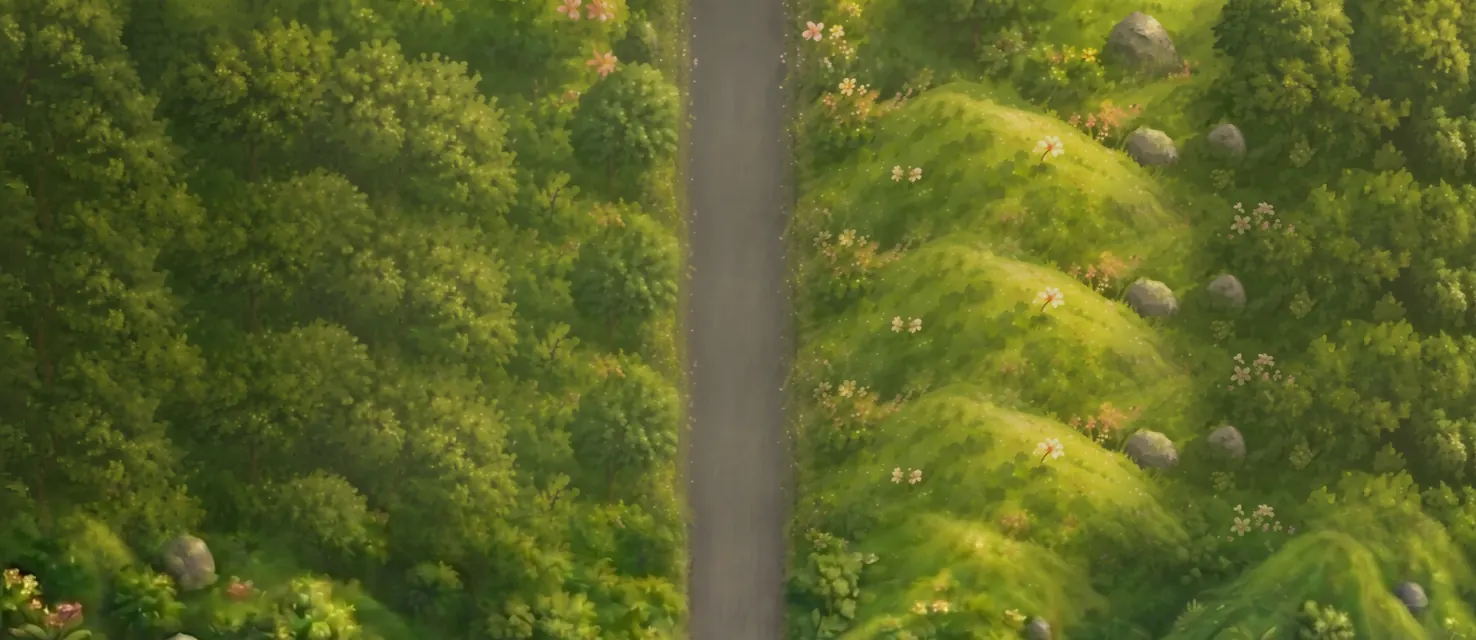
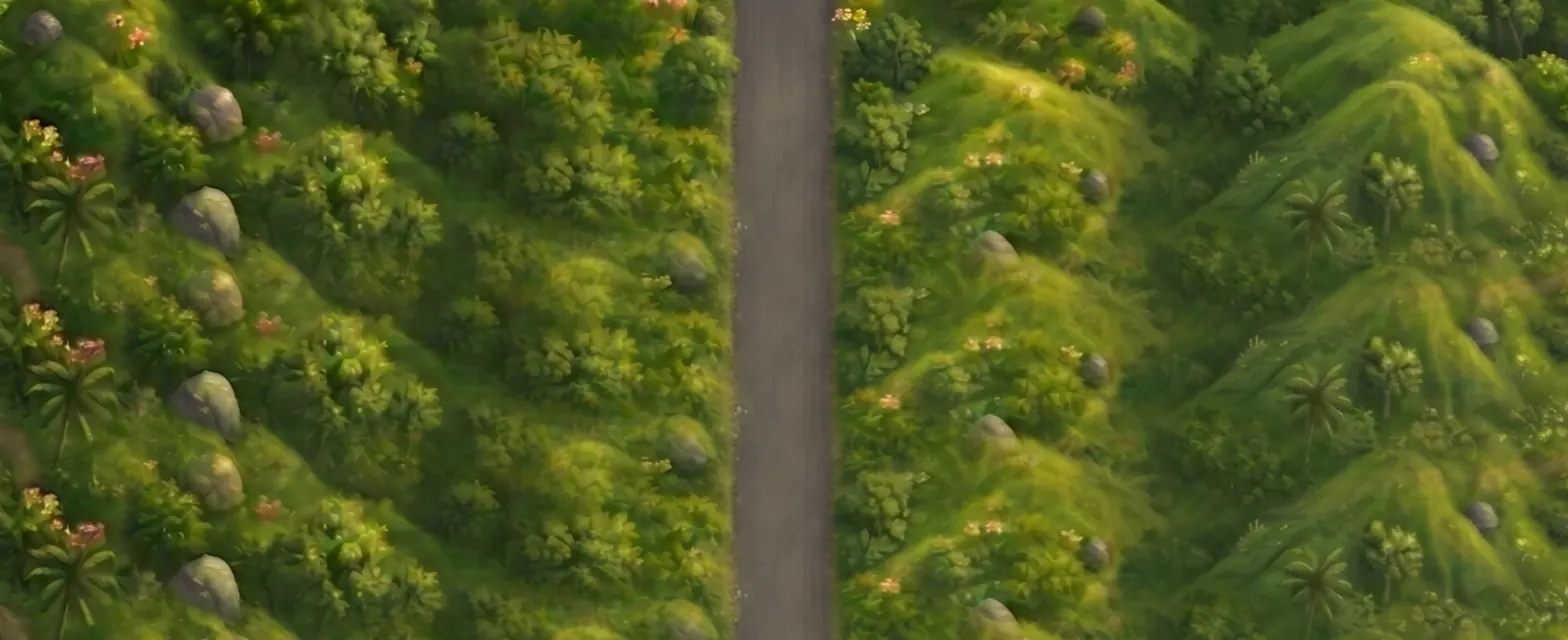
Fix garden style mismatch and revert frame-width heuristic
garden-wide.png and garden-coast-transition.png are different
paintings - different tree density, no dirt trails vs trails - so the
opening garden and the garden-coast join clashed even though neither
showed beach yet. garden-wide.png is now unused; the whole opening
through the dam's own closing tail uses garden-coast-transition.png
and dam.png exclusively, so every join is within the same painting.

Also reverts the dominant-plate frame-width heuristic back to
narrowest-plate-wins: with dam.png in the mix, dominant-plate weighting
picked a frame wide enough to visibly streak dam.png's edges. Frame is
context-dependent - it has to fit every plate actually used, not just
the ones with the most rows.

diff --git a/tools/build-ribbon.py b/tools/build-ribbon.py
@@ -284,23 +284,15 @@ def main():
         print(f"  {os.path.basename(s['src'])[:26]:26s}{rows:16s} {im.size[0]}x{im.size[1]}"
               f"  road {med:5.1f}px  field {avail / ROAD_W:5.2f} road-widths  x{scale:.3f}")
 
-    # The frame is as wide as the *dominant* plate can cover — weighted by how many
-    # output rows each plate actually fills across the sequence (repeats included) —
-    # rather than clamped to whichever single plate is narrowest. A plate narrower
-    # than the frame just repeats its own edge pixels outward (see render()), which
-    # reads as a soft edge rather than an obviously invented one as long as it stays
-    # a minority of the ribbon's rows.
-    weight = {}
-    for s in seq:
-        k = key(s)
-        weight[k] = weight.get(k, 0) + meas[k][0].height
-    dom_key = max(weight, key=lambda k: weight[k])
-    avail = meas[dom_key][4]
-    narrowest = min(m[4] for m in meas.values())
+    # The frame is as wide as the narrowest plate can actually cover. Widening past
+    # that would mean inventing pixels at the edges, which reads as horizontal
+    # streaking down the side of the scene.
+    avail = min(m[4] for m in meas.values())
     OUT_W = int(min(OUT_W, avail) if OUT_W else avail) // 2 * 2
-    if narrowest < OUT_W * 0.9:
-        print(f"  ! narrowest plate covers {narrowest:.0f}px vs frame {OUT_W:.0f}px — "
-              f"its edges will repeat outward to fill the frame")
+    widest = max(m[4] for m in meas.values())
+    if avail < widest * 0.9:
+        print(f"  ! narrowest plate covers {avail:.0f}px vs {widest:.0f}px — "
+              f"the frame is being cropped to suit it")
     print(f"  frame width {OUT_W}px")
 
     cache, plates = {}, []
